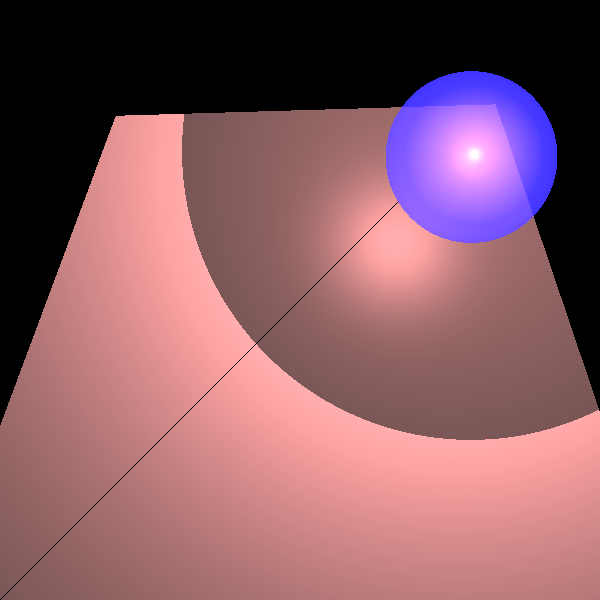
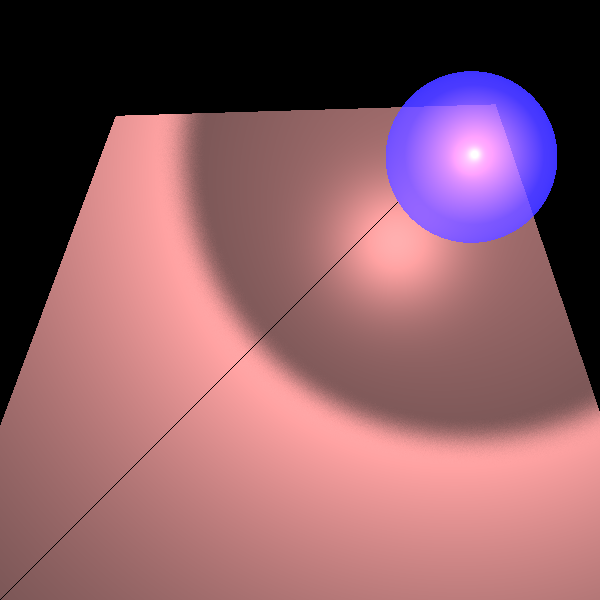
mini project 1

Changed region(s): [[0.27, 0.18, 1.0, 0.75]]

diff --git a/src/renderer/RayTracerBasic.java b/src/renderer/RayTracerBasic.java
@@ -1,10 +1,12 @@
 package renderer;
 
+import java.util.ArrayList;
 import java.util.List;
 import static primitives.Util.*;
 
 import elements.LightSource;
 import geometries.Intersectable.GeoPoint;
+import java.util.Random;
 
 import primitives.Color;
 import primitives.Material;
@@ -23,6 +25,9 @@ public class RayTracerBasic extends RayTraceBase {
     private static final double INITIAL_K = 1.0;
     private static final int MAX_CALC_COLOR_LEVEL = 10;
     private static final double MIN_CALC_COLOR_K = 0.001;
+    public static int NUM_OF_RAYS = 300;
+    public static double RADIUS = 0.01;
+    private static final Random RAND = new Random();
 
     public RayTracerBasic(Scene scene) {
         super(scene);
@@ -127,6 +132,7 @@ public class RayTracerBasic extends RayTraceBase {
         double ks = material.kS;
         Color color = Color.BLACK;
         for (LightSource light : scene.lights) {
+
             Vector l = light.getL(point.point);
             double nl = alignZero(n.dotProduct(l));
             if (nl * nv > 0) {
@@ -139,6 +145,7 @@ public class RayTracerBasic extends RayTraceBase {
                 }
 
             }
+
         }
         return color;
     }
@@ -196,17 +203,19 @@ public class RayTracerBasic extends RayTraceBase {
      * @param gpoint
      * @return boolean
      */
-    private double transparency(LightSource light, Vector l, Vector n, GeoPoint gpoint) {
-        Vector lightDirection = l.scale(-1);
-        Ray lightRay = new Ray(gpoint.point, lightDirection, n);
+    private double transparency(Ray ray, GeoPoint geopoint, LightSource light) {
+        // calculate the distance between the light source and the point
+        double lightDistance = light.getDistance(geopoint.point);
 
-        List<GeoPoint> intersections = scene.geometries.findGeoIntersections(lightRay);
+        // check if there is geometries between the light and the point
+        var intersections = scene.geometries.findGeoIntersections(ray);
         if (intersections == null)
             return 1.0;
-        double lightDistance = light.getDistance(gpoint.point);
+
+        // if there is, calculate the amount of transparency of all of them
         double ktr = 1.0;
         for (GeoPoint gp : intersections) {
-            if (alignZero(gp.point.distance(gpoint.point) - lightDistance) <= 0) {
+            if (alignZero(gp.point.distance(geopoint.point) - lightDistance) <= 0) {
                 ktr *= gp.geometry.getMaterial().kT;
                 if (ktr < MIN_CALC_COLOR_K)
                     return 0.0;
@@ -217,7 +226,7 @@ public class RayTracerBasic extends RayTraceBase {
 
     /**
      * this method constructs the refracted rays
-     * 
+     *
      * @param point
      * @param direction
      * @param normal
@@ -229,7 +238,7 @@ public class RayTracerBasic extends RayTraceBase {
 
     /**
      * this method constructs the reflections rays
-     * 
+     *
      * @param point
      * @param direction
      * @param normal
@@ -284,6 +293,59 @@ public class RayTracerBasic extends RayTraceBase {
         if (intersections == null)
             return null;
         return getClosestPoint(ray.getP0(), intersections);
+    }
+
+    /**
+     * Calculate the new vector by a random number between radius and minus radius
+     *
+     * @param vector
+     * @param radius
+     * @return new vector
+     */
+    private static Vector randomVector(Vector vector, double radius) {
+        double x = vector.getHead().getX() + RAND.nextDouble() * 2 * radius - radius;
+        double y = vector.getHead().getY() + RAND.nextDouble() * 2 * radius - radius;
+        double z = vector.getHead().getZ() + RAND.nextDouble() * 2 * radius - radius;
+        return new Vector(x, y, z);
+    }
+
+    /**
+     * Creates a new ray by a starting point p0, and also receives a direction
+     * vector and radius and calculates the random vector according to this
+     *
+     * @param ray
+     * @return list of rays
+     */
+
+    public static List<Ray> splitRay(Ray ray) {
+        List<Ray> result = new ArrayList<>();
+
+        for (int i = 0; i < NUM_OF_RAYS; i++) {
+            result.add(new Ray(ray.getP0(), randomVector(ray.getDir(), RADIUS)));
+        }
+        return result;
+    }
+
+    /**
+     * Calculates the main ray and sends it to splitray function that creates a list
+     * of rays and summarizes the transparency of each ray and then returns their
+     * average to divide by the size of the list.
+     *
+     * @param light
+     * @param l
+     * @param n
+     * @param geopoint
+     * @return rays transparency average to divide by the size of the list.
+     */
+    private double transparency(LightSource light, Vector l, Vector n, GeoPoint geopoint) {
+        Vector lightDirection = l.scale(-1);
+        Ray lightRay = new Ray(geopoint.point, lightDirection, n);
+        List<Ray> beam = splitRay(lightRay);
+        double transparency = 0;
+        for (Ray ray : beam) {
+            transparency += transparency(ray, geopoint, light);
+        }
+        return alignZero(transparency / beam.size());
     }
 
 }

diff --git a/src/elements/PointLight.java b/src/elements/PointLight.java
@@ -13,7 +13,8 @@ import primitives.Vector;
  */
 public class PointLight extends Light implements LightSource {
     /**
-     * position = position of the lightsource (pointlight)
+     * position = position of the lightsource (pointlight) KC,KL,KQ are the
+     * coeficients of the attenuation of the light source
      *
      */
     private Point3D position;
@@ -103,10 +104,12 @@ public class PointLight extends Light implements LightSource {
      */
     @Override
     public Vector getL(Point3D p) {
+
         if (p.equals(position)) {
             return null;
         }
         return p.subtract(position).normalize();
+
     }
 
     /**

diff --git a/src/unittests/lights/ShadowTests.java b/src/unittests/lights/ShadowTests.java
@@ -189,4 +189,5 @@ public class ShadowTests {
                 render.renderImage();
                 render.writeToImage();
         }
+
 }
